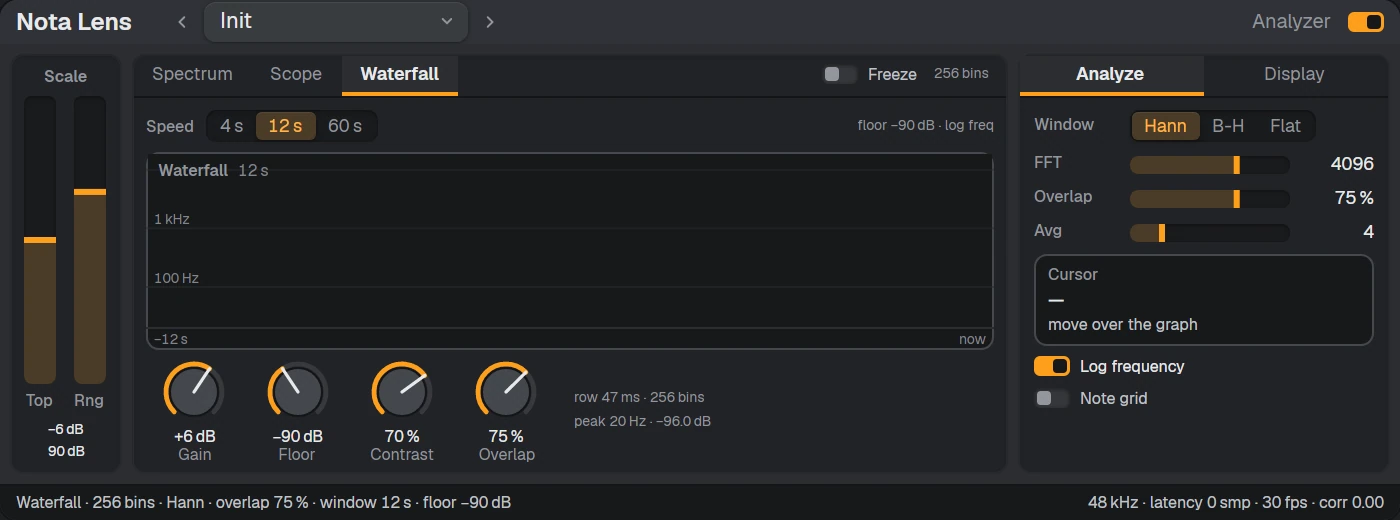
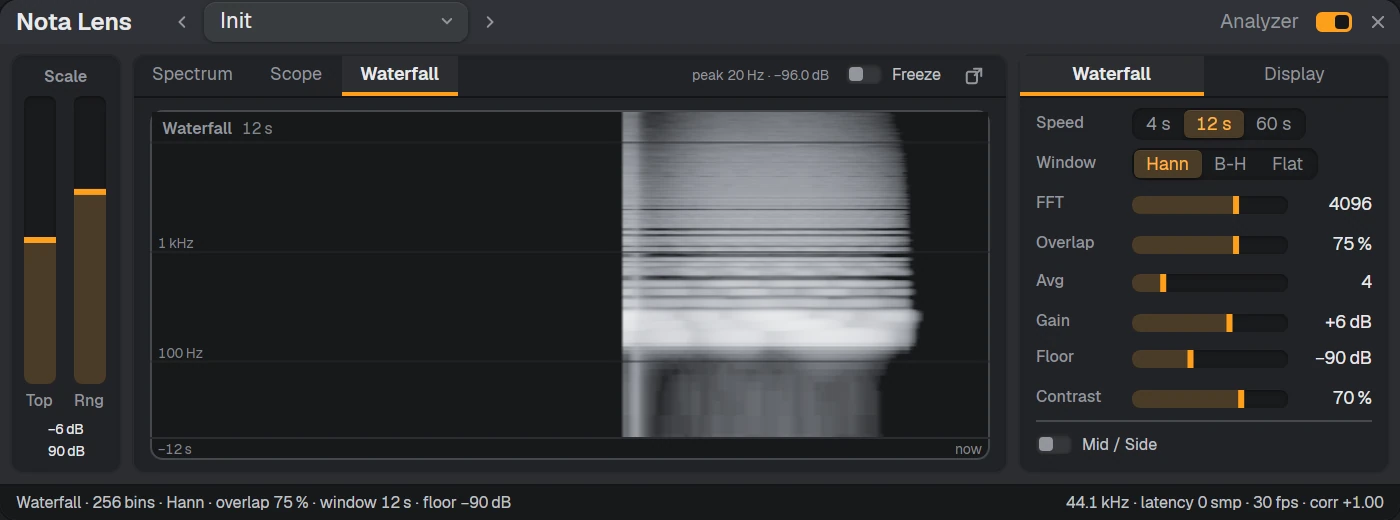
Lens: the graph fills the panel, the right panel holds the view's controls

diff --git a/shots/app/Scenes.cs b/shots/app/Scenes.cs
@@ -21,7 +21,7 @@ namespace NotaDocsShots;
 /// Every scene the manifest can ask for. A scene builds a window, renders it at 2× and saves
 /// the whole frame or a cropped control. Args come from the manifest entry's `args`.
 ///
-///   device    instrument | effect | midi (kind id), preset, tab, card (index in the chain),
+///   device    instrument | effect | midi (kind id), preset, tab, card (index in the chain), live (blocks played with the card open),
 ///             clip (a demo sample on an effect's track), sidechain + sidechainName (a demo sample on
 ///             a second track routed as the effect's key),
 ///             chainInstrument (an Instrument Rack's chain 1 instrument), trackName, window (click this text — a
@@ -214,6 +214,14 @@ public sealed class Scenes
             }
         view.RefreshSynthLive();
         Pump();
+        // `live`: keep the song playing with the card open, so views that read audio while they
+        // are shown (Lens) have something to draw; the transport stops after the shot.
+        bool live = shot.Int("live") is int lv && lv > 0;
+        if (live)
+        {
+            _engine.Play();
+            for (int k = 0; k < shot.Int("live"); k++) { _engine.RenderOffline(buf, 1024); view.RefreshSynthLive(); Pump(1); }
+        }
         if (shot.Str("window") is string open)
         {
             // Pop a device out (a rack chain's GUI button) and shoot its device window.
@@ -230,6 +238,7 @@ public sealed class Scenes
         var chain = view.GetVisualDescendants().OfType<StackPanel>().First(p => p.Orientation == Orientation.Horizontal && p.Children.Count > 0 && p.Bounds.Height > 200);
         var card = chain.Children[shot.Int("card") ?? 0];
         Save(win, shot.Id, card);
+        if (live) _engine.StopTransport();
         win.Close();
     }
 
